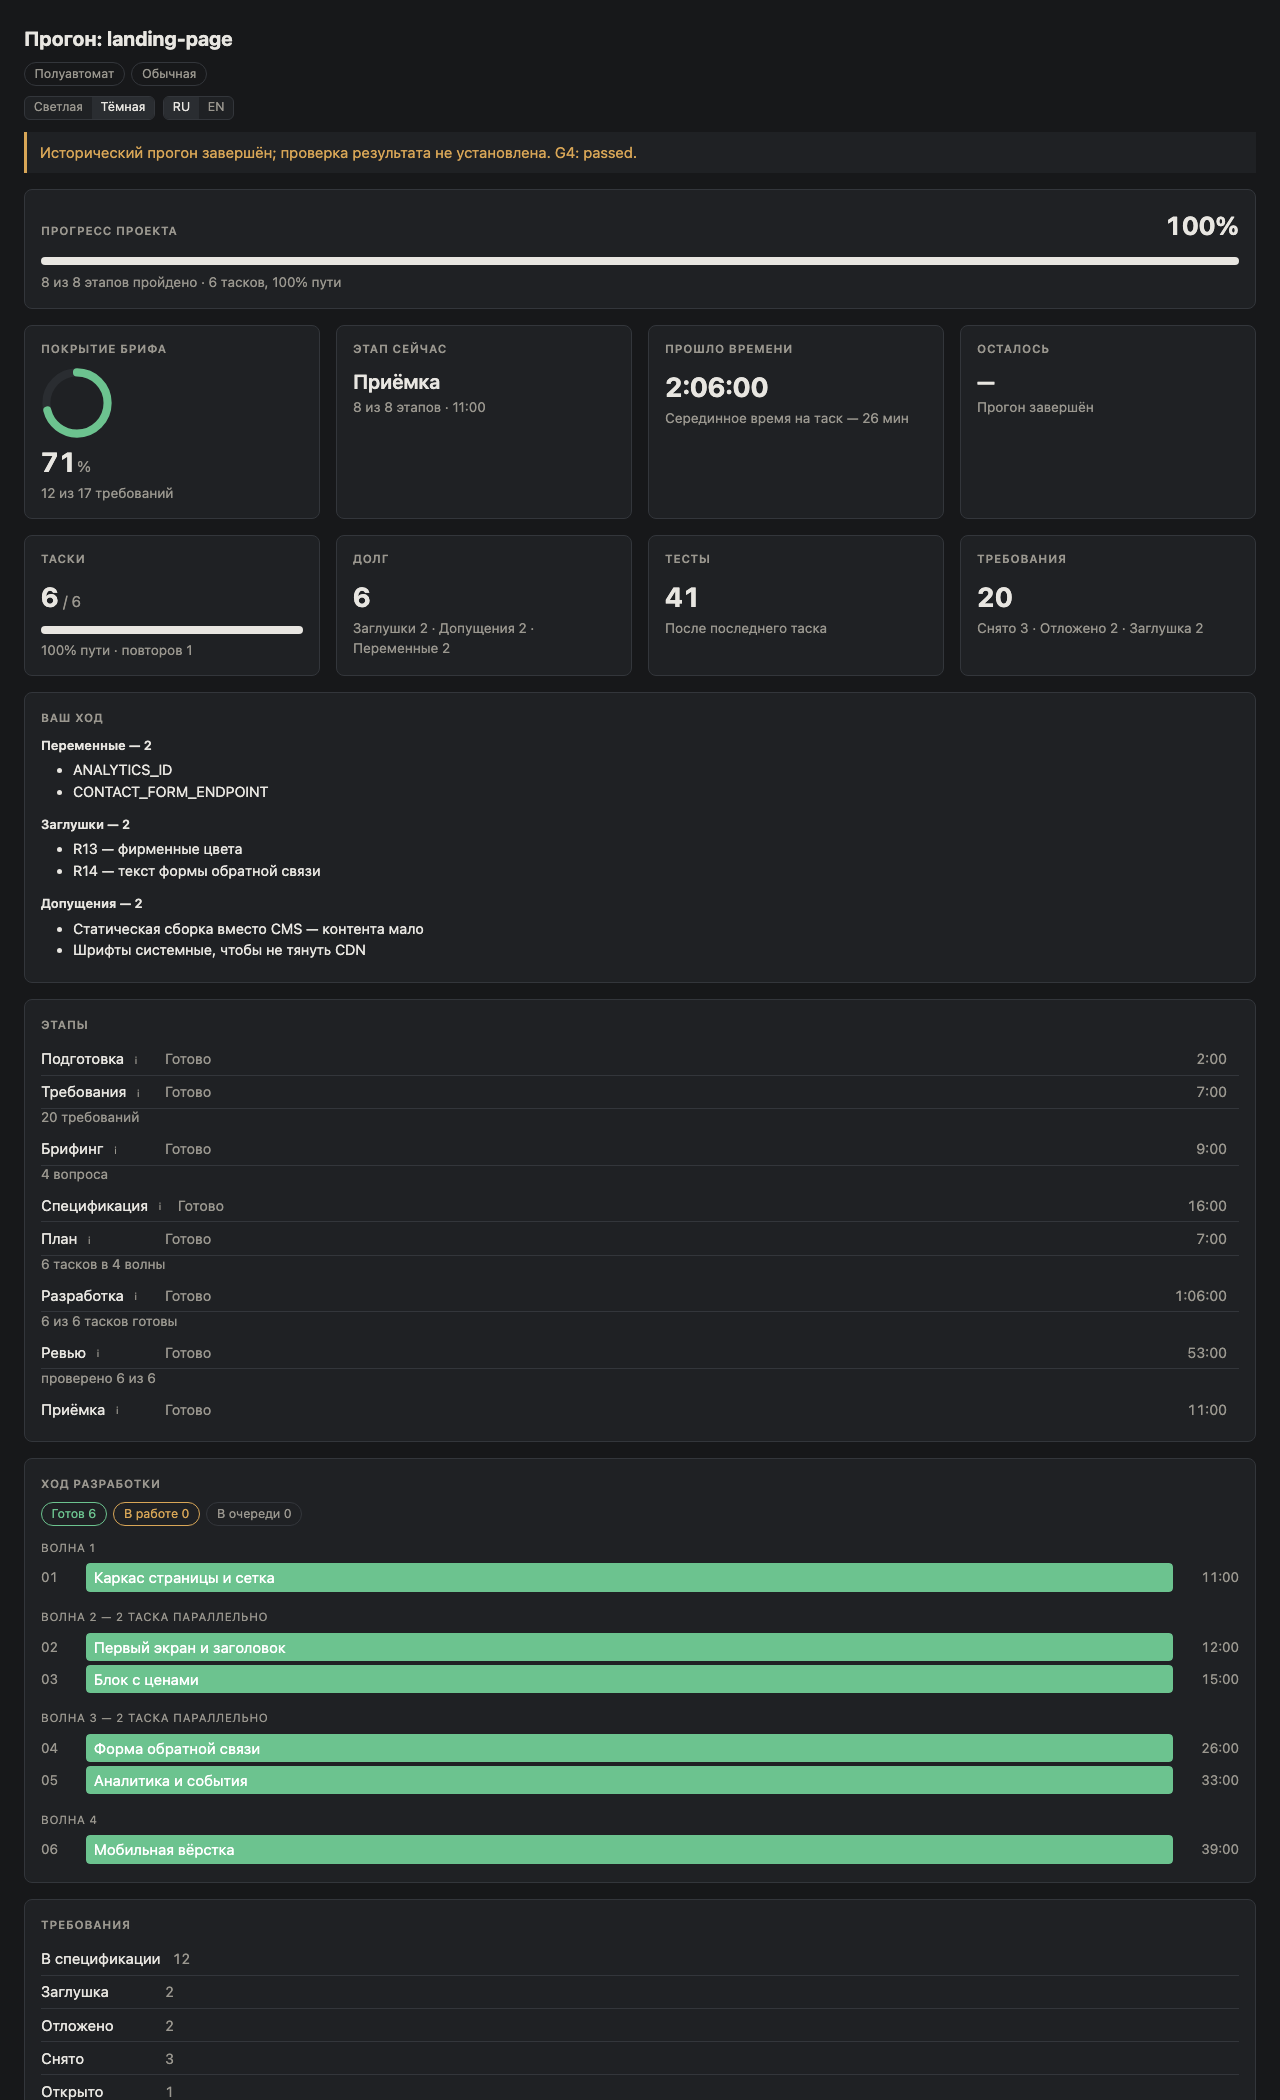
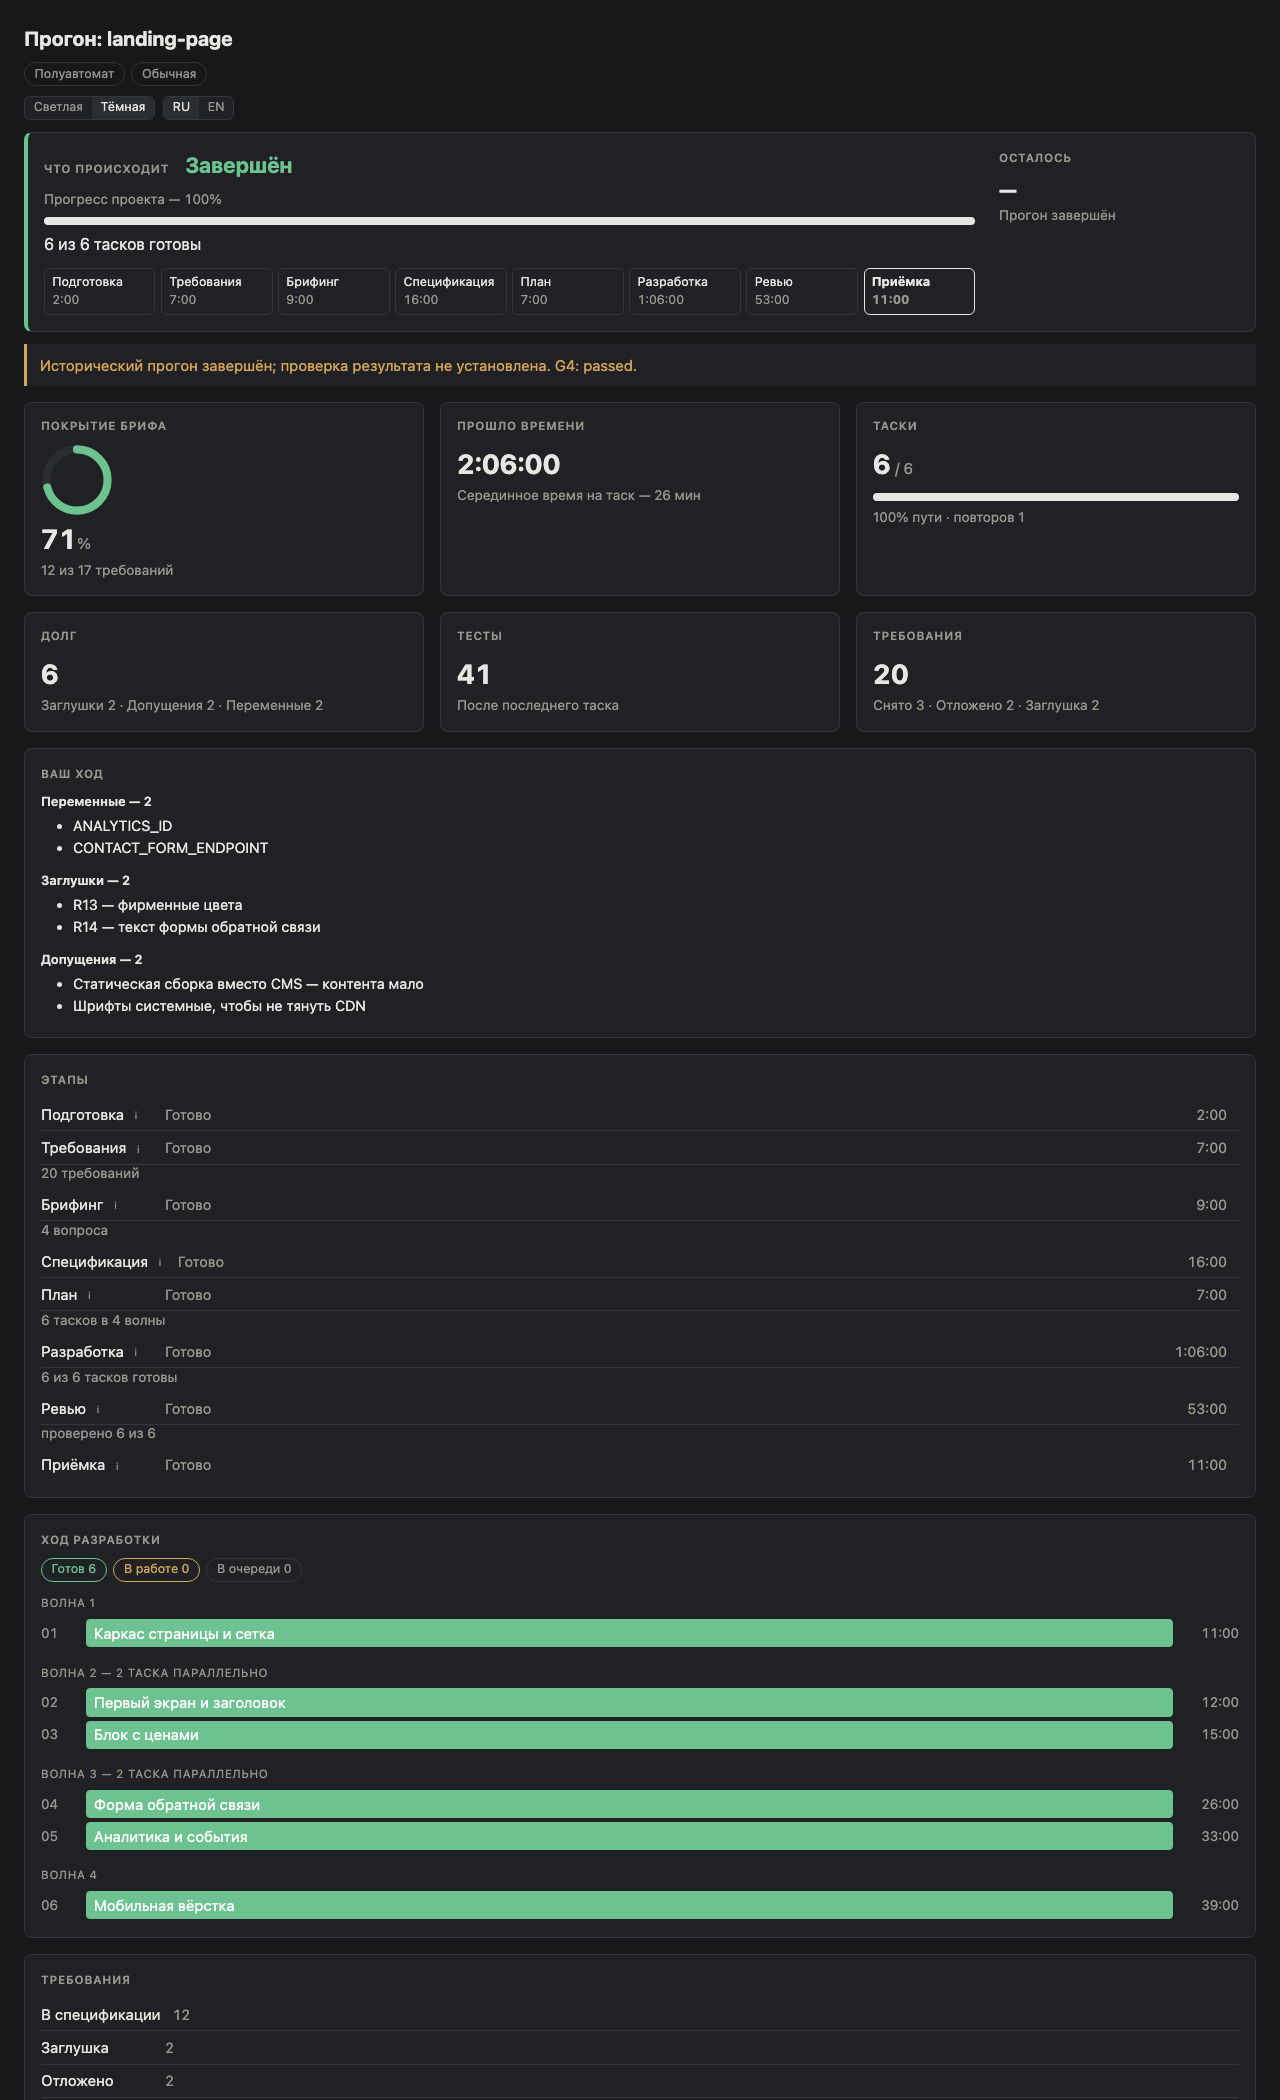
docs: describe the header band and close the roadmap item

diff --git a/docs/dashboard.md b/docs/dashboard.md
@@ -54,7 +54,21 @@ sources and independent returns before passing new gates.
 
 ![The dashboard during the build stage](assets/dashboard-running.png)
 
-The page opens with one bar: how much of the прогон is behind you. It is
+The page opens with a band that says what is happening. On its left, the
+прогон's condition as one word and a colour — «Идёт работа», «Ждёт вас»,
+«Завершён» or «Сбой». Under the word is a bar, one sentence about the таски
+(«2 из 6 тасков готовы, ещё 3 в работе»), and a line naming the таски in work,
+in review and in repair by title, three to a group. Under those is a strip of
+the eight stages, each with its own clock; a skipped one says «Пропущен» where
+its clock would be. On the band's right is «Осталось».
+
+The colour is never the only signal: the word says the same thing. «Ждёт вас»
+outranks a failed stage, because either way the next move is yours. «Завершён»
+says the прогон closed and nothing more — whether the work was verified is the
+notice under the band. A chat that died mid-stage still reads «Идёт работа»,
+because the page cannot tell it from a busy one; the silence notice says so.
+
+The bar is how much of the прогон is behind you. It is
 weighted by how long each stage takes rather than counting stages equally, and
 inside разработки it is subdivided by **how far the таски have got** — so it
 creeps with the work instead of standing still for an hour and then jumping.
@@ -69,10 +83,9 @@ cannot disagree about the same таск — and it means the bar can fall, which
 should: a таск sent from ревью back to ремонт lost work, and a bar that only
 ever rises would hide exactly that.
 
-Beneath it are eight cards. Four of them answer «где мы» — покрытие брифа, этап
-сейчас, прошло времени, осталось — and four answer «что осталось закрыть» —
-таски, долг, тесты, требования. Every one of those numbers is computed from the
-run state at render time; none is stored.
+Beneath the band are six cards: покрытие брифа, прошло времени, таски, долг,
+тесты, требования. Every one of those numbers is computed from the run state at
+render time; none is stored.
 
 **Осталось is a range and refuses to be sharper.** It is the median of finished
 таски measured along the remaining critical path, and below two finished таски
@@ -84,8 +97,9 @@ segment, for the work in flight. Before that, the card read «0 / 6» above a ba
 filled to 38% and the words «38% готово» — three numbers about one thing, two of
 them disagreeing.
 
-The stage timeline is the run: eight stages in order, the current one marked,
-each with the one-phrase note the phase left and its own duration.
+The stage timeline is the run in full: eight stages in order, the current one
+marked, each with the one-phrase note the phase left, its own duration, and the
+findings of a check that failed after it. The strip in the band is its summary.
 Every visible word comes from `docs/spec/vocabulary.md` — the state stores ids
 and the page resolves them at render time, so a wording change never requires a
 state migration. Those words are Russian, because the interface is: the
@@ -315,7 +329,7 @@ explanation is built by calling the same functions the region draws itself with,
 so it cannot tell you a story the number above it disagrees with.
 
 **In which words depends on how you answered the first question of the project.**
-If you chose *по-простому*, every one of the twenty-three explanations — fifteen
+If you chose *по-простому*, every one of the twenty-two explanations — fourteen
 regions and eight стадии — is written for someone who has never built software:
 «Осталось» stops saying *медиана* and says *серединное время*, the block called
 «Гейты» opens with what the four checks actually are, and Ревью says a субагент

diff --git a/CHANGELOG.md b/CHANGELOG.md
@@ -28,6 +28,17 @@ number that claimed more than that would be claiming it falsely.
   `plan-gate`, `one-way-action`, `repair-limit` — and an optional one-line
   `awaiting.note` says what is awaited, in the прогон's language. All three are
   refused below contract 9, and a contract-8 run keeps running under 8.
+- **The dashboard opens with a band that says what is happening.** It names
+  the прогон's condition as a word and a colour — «Идёт работа», «Ждёт вас»,
+  «Завершён» or «Сбой» — read from `lifecycle`, `outcome`, `interruptedAt`,
+  `awaiting` and `stages[]`. A wait outranks a failed stage, and «Завершён»
+  never claims the work was verified. Under the word are the bar, one sentence
+  about the таски («2 из 6 тасков готовы, ещё 3 в работе»), the таски in work,
+  in review and in repair by title, and the eight stages as a strip with their
+  clocks. The `progress` and `stage` regions are retired into the band, and
+  the `estimate` region moved to its right. `npm run dashboard` holds the four
+  condition words to the new *Run Condition* table in `vocabulary.md`. No
+  contract change.
 - **A wait for the user stops the clocks.** From contract 9 the dashboard cuts
   every closed wait and the open one out of working time, the stage clocks, the
   таск durations, the median and the estimate before the 45-minute ceiling

diff --git a/README.md b/README.md
@@ -623,10 +623,13 @@ state on its own. Offline, no CDN, no fonts, no build step.
 
 ![The dashboard during the build stage](docs/assets/dashboard-running.png)
 
-Progress across the whole прогон, weighted by how long each stage typically takes —
-the build counts six, specification and review two, the rest one.
-Eight cards: brief coverage, the current stage, working time, what is left,
-таски, debt, tests, requirements. And the build itself grouped by wave, so the
+A band at the top says what is happening: the прогон's condition as a word and a
+colour — working, waiting for you, finished or failed — then progress across the
+whole прогон, one sentence about the таски, the таски in flight by title, and the
+eight stages as a strip with their clocks. What is left stands at its right.
+Progress is weighted by how long each stage typically takes — the build counts
+six, specification and review two, the rest one. Six cards follow: brief
+coverage, working time, таски, debt, tests, requirements. And the build itself grouped by wave, so the
 parallelism you paid for is the parallelism you can see — measured from the
 clocks rather than claimed from the plan. Every number is computed from the run
 state when the page draws itself, and «осталось» is a range that refuses to be

diff --git a/docs/spec/state-contract.md b/docs/spec/state-contract.md
@@ -58,7 +58,7 @@ is recorded as having arrived later and raised nothing — an optional field tha
 widens no existing value set is exactly the case that changes no version.
 
 **`explain` is the one dial the state carries that produces no part of the
-build.** It is here because the dashboard has to render its fifteen
+build.** It is here because the dashboard has to render its fourteen
 explanations in the register the user chose, and `state.js` is the only thing
 the dashboard reads. It is **optional**: every state written before the register
 existed has no `explain`, and the page renders such a state exactly as it
